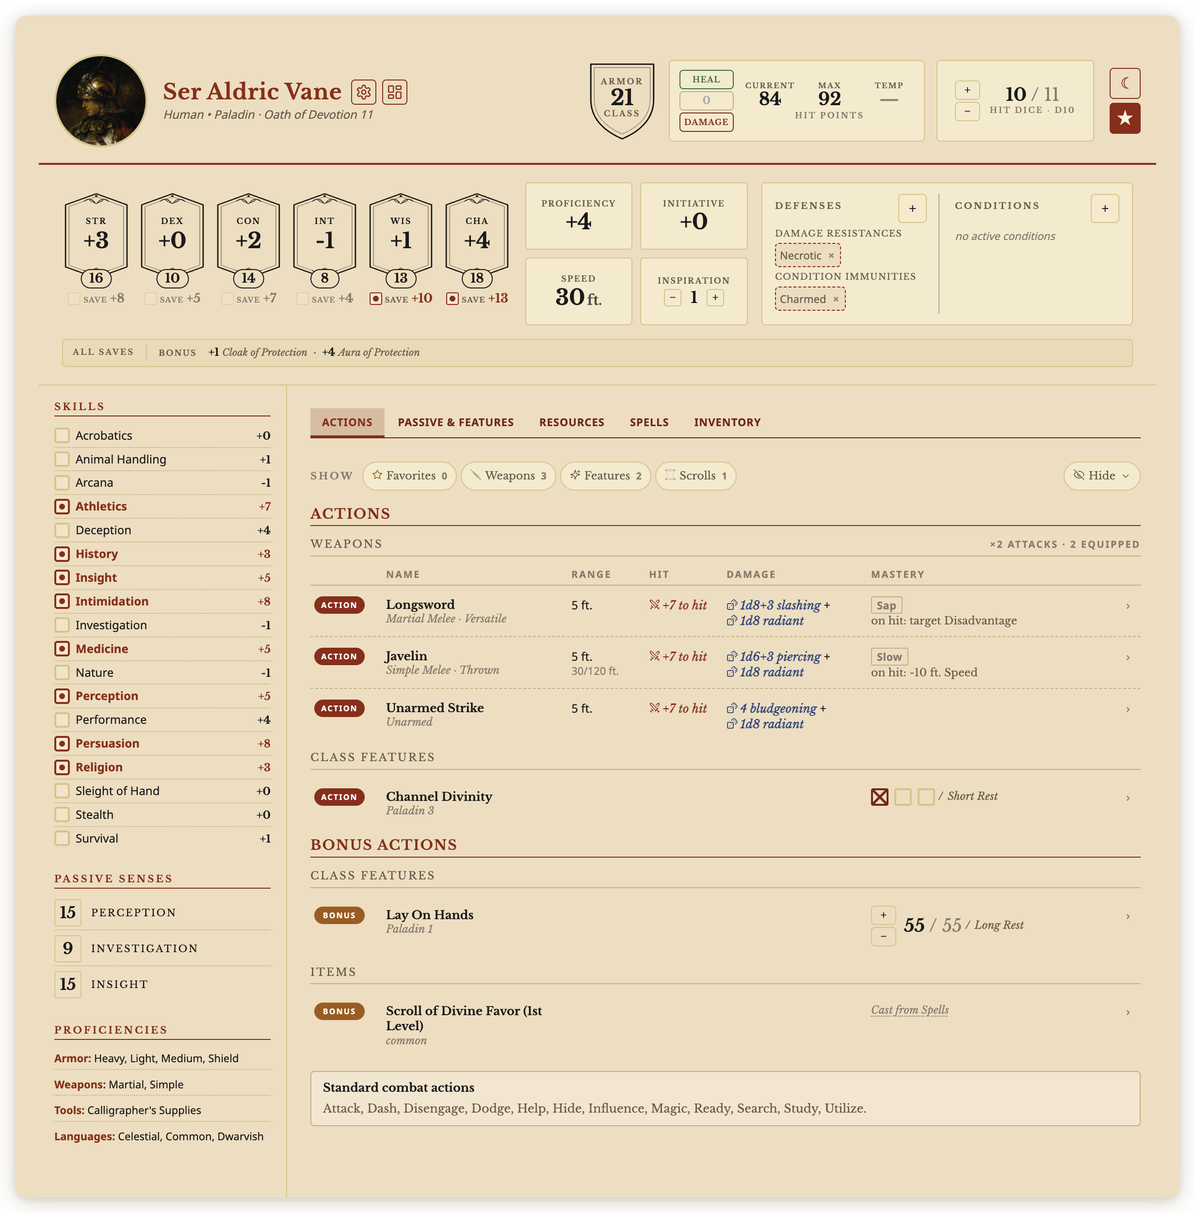
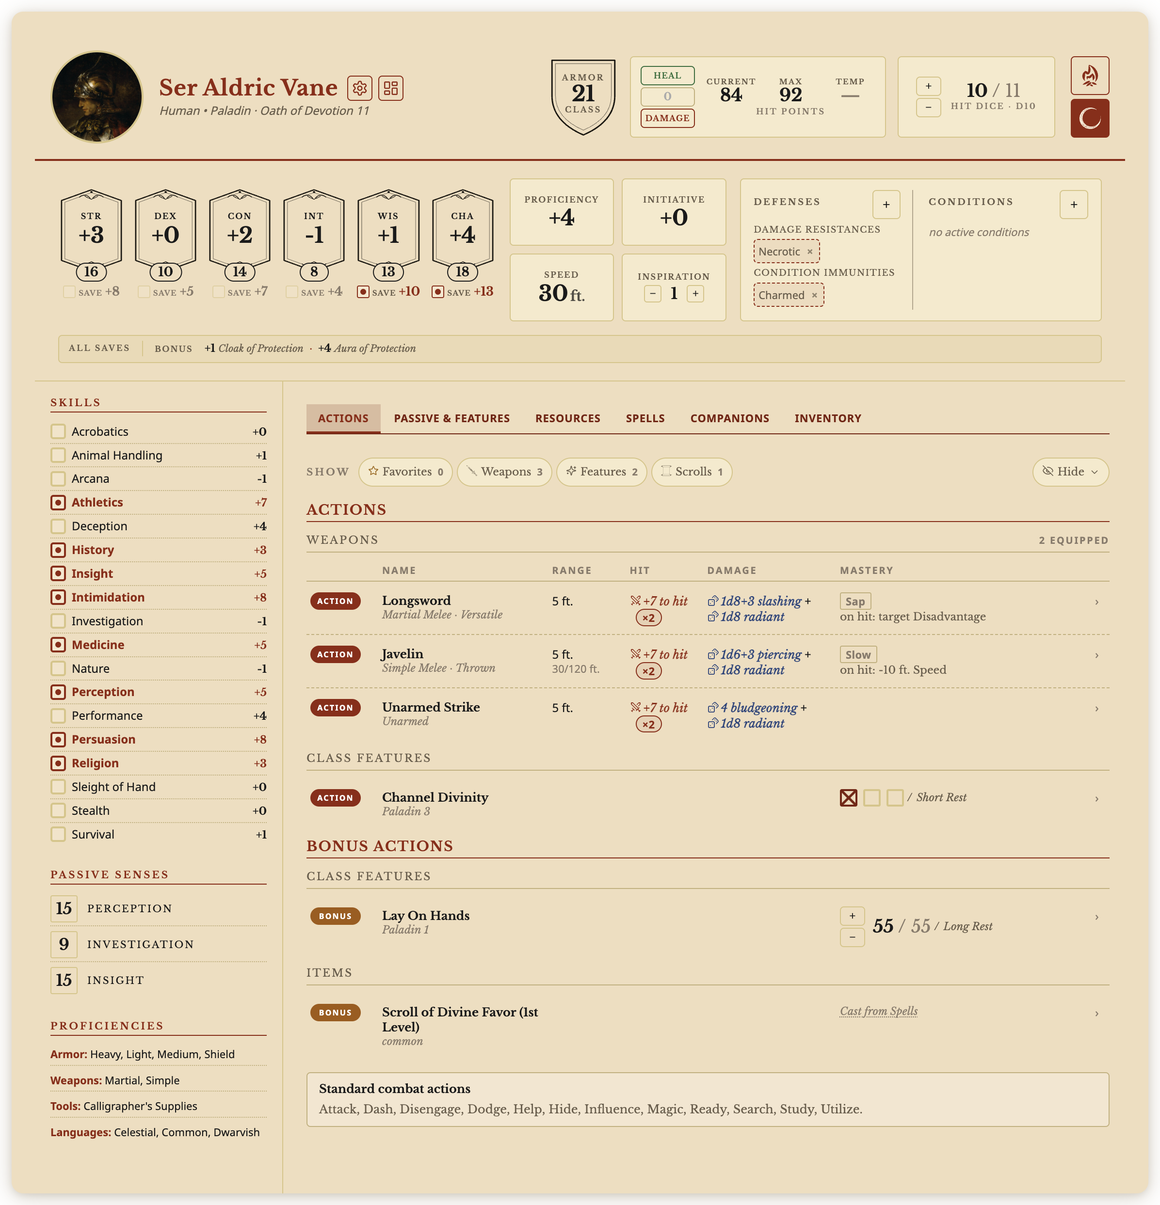
Archivist 0.13.3: the BRAT manifest, and the README's lines for a feat's spells, every edition in every list (Wild Shape and the summon window list creatures from every compendium you have not hidden, with a compendium filter), the first class setting the rules, the 2024 Exhaustion penalty on Initia
Claude-Session: https://claude.ai/code/session_011y1u5d3XX79585rFrwGxSB

diff --git a/README.md b/README.md
@@ -6,7 +6,7 @@
 
 **Fifth edition character sheets for [Obsidian](https://obsidian.md) that do the math for you and roll with a click.** Build your character step by step, and the sheet works out every number from the rules: saves, skills, attacks, damage, spells, resources and rests. Give your character a portrait, fill a backpack, and watch an item's benefits switch on when you put it on. Around the sheet, monsters and spells you write in your notes appear as parchment stat blocks, dice in your notes roll with a click, and the System Reference Document 5.1 and 5.2 arrive as linked compendiums next to your own homebrew. Everything stays in your vault as ordinary notes you own.
 
-![The character sheet of Ser Aldric Vane, a level 11 Human Paladin with a painted portrait: Armor Class 21, hit points, the six abilities with their saves, resistances, the skills list, and the Actions tab with weapons, weapon masteries and class features.](images/hero-sheet.png)
+![The character sheet of Ser Aldric Vane, a level 11 Human Paladin with a painted portrait: Armor Class 21, hit points, Hit Dice, the Short Rest and Long Rest buttons, the six abilities with their saves, resistances, the skills list, and the Actions tab with weapons, weapon masteries and class features.](images/hero-sheet.png)
 
 > **Which Archivist?** This is **Archivist by archivist-gg**, installed from this page. It is not related to other Obsidian plugins or apps named Archivist.
 
@@ -51,7 +51,7 @@ BRAT looks for new versions on its own. To update right away, open the command p
 
 The first time Archivist starts (and after an update that changes the SRD), it adds the SRD to your vault: about 3,600 read-only notes in `Compendium/SRD 5e` (SRD 5.1) and `Compendium/SRD 2024` (SRD 5.2). That first start takes a little longer than the ones after it. SRD 5e starts hidden from the lists you pick from; turn it on in **Settings → Archivist → Compendiums**.
 
-Then make a character with the **New character** command, the ribbon button, or **New character here** on any folder in the file explorer.
+Then make a character with the **New character** command, the ribbon button, or **New character** in the right-click menu of any folder in the file explorer.
 
 ## Contents
 
@@ -94,7 +94,7 @@ At a glance:
 
 ### Character sheet
 
-Every character is an ordinary note in your vault. Open it and you get the sheet. Keep it in any folder, and link, search and back it up like any other note.
+Every character is an ordinary note in your vault. Open it and you get the sheet. Keep it in any folder, and link, search and back it up like any other note. On Windows and Linux the sheet keeps the same width when a long tab brings up the scroll bar, so nothing jumps as you switch tabs or open a row.
 
 **Find in the sheet.** Press Cmd+F (Ctrl+F) on a sheet, or the search button at the top of it, and type: every match lights up and the bar counts them ("3 of 23"). Enter and Shift+Enter step through them, and Esc closes the bar. Each tab shows how many matches it holds, and Enter after the last one goes on to the next tab. The sheet uses the same keys as Obsidian's own search in a note.
 
@@ -156,7 +156,7 @@ Rolling your own dice at the table? Turn off **Roll dice when you click a number
 | Attack (HIT) | Roll to hit | Advantage | Disadvantage | **Roll attack…** window | Menu: the rolls, Roll attack…, saved rolls, Favorite, Hide |
 | Damage | Roll all the damage | Critical hit | | **Roll damage…** window | Menu: damage, critical, each extra bonus, Roll damage…, saved rolls |
 
-**Checks, saves and Initiative.** Roll a d20 plus your bonus. Advantage and disadvantage that always apply are used for you (advantage on Stealth rolls two d20s and keeps the higher; having both cancels them out), and the result says where the advantage came from.
+**Checks, saves and Initiative.** Roll a d20 plus your bonus. Advantage and disadvantage that always apply are used for you (advantage on Stealth rolls two d20s and keeps the higher; having both cancels them out), and the result says where the advantage came from. Under the 2024 rules, each level of Exhaustion takes 2 off every d20 you roll, and the sheet's numbers already include it: saves, skills, ability checks, Initiative, attacks and spell attacks.
 
 **Death saves.** At 0 HP, click DEATH SAVES to roll one and fill in its circle: 10 or more is a success, a natural 1 counts as two failures, and a natural 20 brings you back with 1 HP.
 
@@ -191,7 +191,7 @@ Anything you can roll gets a dotted underline when you hover it. Dice in your no
 
 **Passive & Features tab.** Species, background, class and subclass features, feats, and passive or free actions, each with where it comes from and at what level. Features you switch on (Rage) or use have their button here.
 
-**Resources tab.** Every limited resource, grouped by when it comes back (Short Rest or Long Rest): Hit Dice, use boxes, pools such as Lay On Hands, and dice that work like Hit Dice (the die, how many are left, − and +, and a box to type a number). Hover a die to see when it grows, such as "d6 at Bard 3, d8 at Bard 5". A feature that spends another resource lets you spend it right there.
+**Resources tab.** Every limited resource, grouped by when it comes back (Short Rest or Long Rest): Hit Dice, use boxes, pools such as Lay On Hands, and dice that work like Hit Dice (the die, how many are left, − and +, and a box to type a number). Hover a die to see when it grows, such as "d6 at Bard 3, d8 at Bard 5". A feature that spends another resource lets you spend it right there. A tracker you write yourself can count from an ability score, such as a pool of 5 times your Wisdom score: it grows when an item or an increase raises that score and keeps what you have spent.
 
 **Option tabs.** Classes that choose from a list of options get their own tab, such as **Eldritch Invocations** or **Metamagic**: a table with filters, how many you know, prerequisites, and Activate or Spend buttons where an option has them. An option whose prerequisite you no longer meet stays listed so you can swap it out, and does nothing until you meet it.
 
@@ -206,6 +206,7 @@ Anything you can roll gets a dotted underline when you hover it. Dice in your no
 - Columns for casting time, range, **Hit / DC**, effect (damage dice with a damage type icon, healing, targets) and components with duration, plus concentration and ritual marks.
 - **CAST** spends a slot. A spell attack's Atk rolls to hit, with its **ADV** or **DIS** on a line under the number, as on a weapon.
 - **CAST** on a spell that summons a creature, such as **Find Familiar** or **Animate Dead**, opens the summon window and adds the creature to the **Companions** tab.
+- **Spells from a feat.** A feat that gives spells, one you write yourself or import, now gives them: the Builder asks for the spells it lets you choose (cantrips, a spell list, a spell of a given level or school) and for its spellcasting ability, and they appear on the Spells tab, with a free cast for a spell it lets you cast once per Long Rest.
 - **Free casts.** A spell you can cast once per Long Rest without a slot, such as a species' spells or the level 1 spell from **Magic Initiate**, has an outlined **CAST** that counts the cast and greys out once it is used; a rest gives it back.
 - A cantrip that needs concentration, such as **Guidance**, has a **CAST** button in place of At Will, and casting it starts your concentration.
 - A choice that picks a list of spells, such as a **Circle of the Land** Druid's land, prepares that list's spells, and **Natural Recovery** casts one of them without a slot.
@@ -219,6 +220,7 @@ Anything you can roll gets a dotted underline when you hover it. Dice in your no
 A familiar, a steed, the creatures you animate or summon, and your Wild Shape forms get their own **Companions** tab, after Spells. It appears once a character has a companion, or a spell, feature or class option that brings one, such as **Find Familiar**, **Find Steed**, **Animate Dead**, **Animate Objects**, **Giant Insect**, **Summon Dragon** or the SRD 5.1 **Conjure** spells.
 
 - **Cast to summon.** **CAST** on a spell that summons a creature opens the summon window: the creatures you can choose from in a list, the one you pick as its full stat block beside it, and what the spell asks for, such as its kind (celestial, fey or fiend), its size or how many. **How you cast it** picks the way: a spell slot of a level you choose, a Pact slot, a free cast, as a ritual, or the scroll or item that holds the spell. A line says what the casting spends, and the button says it again. Then the creature joins the tab. Casting a spell that gives you only one creature again, such as **Find Steed**, updates the one you have. Until you cast, a card with **Summon** waits on the tab for each spell or feature that can bring a creature.
+- **Creatures from every compendium.** The summon window and the Wild Shape forms list creatures from every compendium you have not hidden, SRD 5.1 and SRD 5.2 alike, the spell's or class's own compendium first. Each row names its compendium, and the **Compendium** filter ticks compendiums on and off.
 - **A full stat block, worked out for you.** Each creature has its own Hit Points with Heal and Damage, temporary Hit Points and Hit Dice, its abilities, saves, skills and Initiative, and attacks that roll on its own numbers. Hover a number that grows with you or with the spell to see how it is worked out, such as "10 + the spell's level (2)". A creature from a class option uses that class's level, also when you have more than one class.
 - **Its own conditions.** A creature has its own conditions and Exhaustion, which change its rolls and never yours. The Conditions window greys out the conditions it is immune to.
 - **Dismiss and Summon.** **Dismiss** sends a creature away. A familiar from **Find Familiar** waits in its pocket dimension and **Call back** brings it back for free. Any other creature needs a real casting to come back: **Summon…** opens the summon window on your last picks, where you can also choose another creature or form, and casting it spends a slot, a Pact slot or a free cast, or nothing as a ritual. A creature's menu renames it, adds a note, changes its form (a familiar from an owl to a cat) or removes it.
@@ -246,7 +248,7 @@ A familiar, a steed, the creatures you animate or summon, and your Wild Shape fo
 - **Drag and drop.** Drag a row into a container, out of it, or onto **On you**. Drop it on a matching item to add it to that stack. An item that is equipped or attuned, has its own note, charges or changes, or is a container keeps its own row.
 - Each row's menu: Equip or Unequip, **Move to** another container, **Trade with…** another character, Quantity, Split one off, Edit note, Remove.
 - **Select** picks several rows at once to trade, move or remove them together.
-- **Trade** items and coins with another character in your vault. The Trade window shows the two characters side by side, each with their coins right above their items: move items either way (part of a stack, a container with what is in it; worn or attuned items come off), add coins, then **Trade**. **Undo** puts both characters back, and each Inventory keeps a **Given and received** list.
+- **Trade** items and coins with another character in your vault. The Trade window shows the two characters side by side, each with their coins right above their items. Both sides list what that character has **On you** first, then each container, and the two lists line up row for row. Move items either way (part of a stack, a container with what is in it; worn or attuned items come off), add coins, then **Trade**. **Undo** puts both characters back, and each Inventory keeps a **Given and received** list.
 - **Benefits follow what you wear.** An item's resistances, immunities, AC, saves, senses, speeds and effects count while it is equipped (and attuned, if it needs attunement). A magic weapon that needs attunement attacks as a plain weapon until you attune it.
 - Item **notes**, **charges** with when they come back ("Dawn 1d6+1"), and a **Customize** card for changes to one item.
 - **Icons** for weapons, armor, gear, potions, wands, rings and more.
@@ -255,10 +257,12 @@ A familiar, a steed, the creatures you animate or summon, and your Wild Shape fo
 
 ### Builder
 
-Make a character with **New character** (the command or the ribbon button) or **New character here** on any folder, and the Builder opens. Come back later with **Manage & level up** to level up or change a choice.
+Make a character with **New character** (the command, the ribbon button, or the right-click menu of any folder), and the Builder opens. Come back later with **Manage & level up** to level up or change a choice.
 
 - Six steps: **Race / Species**, **Class & Levels**, **Background**, **Abilities**, **Equipment** and **Details**.
 - Every pick is a list of what is in your compendiums, SRD and homebrew together, with where each one comes from. Select one to read its full card before you decide.
+- **Every edition in every list.** Lists are not split by edition: a 2024 character can pick a 2014 spell, feat or option, and the other way round. Only a compendium you hide stays out of the lists.
+- **Your first class sets the rules.** A character follows the edition of its first class: a 2024 class plays the 2024 rules for conditions, Exhaustion and actions, a 2014 class the 2014 rules. Characters you made before follow their class too, with no change to their note.
 - **What you decide** lists every choice your pick asks for (skills, a lineage, a Fighting Style, Weapon Mastery, a subclass, feats or Ability Score Improvements) with its level, and marks what is still open.
 - **Features by level** shows the whole class progression: features you have are filled in, the ones ahead are hollow.
 - Multiclass with **Add another class**, set ability scores by standard array, point buy, typing them in or rolling, and take your starting equipment from your class and background.
@@ -273,12 +277,13 @@ Make a character with **New character** (the command or the ribbon button) or **
 
 A compendium is a folder of notes inside your `Compendium` folder, one note for each monster, spell, item and so on.
 
-- **SRD 5.1 and SRD 5.2 included.** Archivist adds both as read-only compendiums (`SRD 5e` and `SRD 2024`): every SRD spell, monster, magic item, class, subclass, species, background, feat and condition. An update only touches the notes that changed. SRD 5e starts hidden from the lists you pick from.
+- **SRD 5.1 and SRD 5.2 included.** Archivist adds both as read-only compendiums (`SRD 5e` and `SRD 2024`): every SRD spell, monster, magic item, class, subclass, species, background, feat and condition. An update only touches the notes that changed, and Archivist notices any changed SRD note, so a fix to the SRD reaches your vault with the update that brings it. SRD 5e starts hidden from the lists you pick from.
 - **Your own homebrew.** Keep your own monsters, spells, items and more in your own compendiums, next to the SRD. Save any stat block to a compendium with the button beside it; if you do not have one yet, Archivist offers to make one.
 - **Name them your way.** Give SRD 5e and SRD 2024 any name in **Settings → Archivist → Compendiums**, and Archivist shows it wherever it names them. Your folders, notes and links keep their names.
 - **Show or hide, lock or unlock.** Each compendium has a **Visible** switch (whether its entries show up in the sheet's and the Builder's lists and when you type `{{`) and a **Read-only** switch. "Save as new" copies an entry from a read-only compendium into one you can edit.
 - **Changes show up right away.** Edit, add, rename or delete a compendium note and Archivist uses it at once, with no restart. An open sheet shows the change the next time it updates.
 - **Quick to start.** Archivist remembers your compendiums on each device, so later starts only read the notes that changed.
+- **Bring your own content with an AI assistant.** The Archivist skills teach an AI assistant such as Claude to turn a character sheet, a PDF or your own homebrew into notes Archivist reads, and to check and update older notes: [download the Archivist skills](https://github.com/archivist-gg/archivist-obsidian-plugin/releases/latest/download/Archivist-skills.zip).
 
 ![Typing {{spell:fire in a note lists Fire Bolt, Fire Shield, Fire Storm, Fireball, Delayed Blast Fireball, Faerie Fire and Wall of Fire from SRD 2024.](images/compendium-suggest.png)
 
@@ -337,7 +342,7 @@ Type `{{` and start typing a name to pull any entry from your compendiums into a
 | Setting | What it does |
 | --- | --- |
 | Compendium root folder | The folder that holds your compendiums (`Compendium` unless you change it). |
-| Player characters folder | Where **New character** puts new characters. A character works in any folder. |
+| Default player character folder | Where the **New character** command and the ribbon button put new characters. A character works in any folder. |
 | Portraits folder | Where the portrait picker looks for pictures and keeps the ones you import (`PlayerCharacters/Portraits` unless you change it). |
 | Rolls → Critical hits | What a critical hit does to damage: double the dice (the default), maximum dice plus a roll, or double the total. |
 | Rolls → Where roll results appear | Top right (the default), bottom right, top left or bottom left of the window, for every roll: the sheet's, a stat block's and the dice in your notes. **Next to the number** opens a sheet roll's result beside the number you clicked. |
@@ -349,7 +354,7 @@ Type `{{` and start typing a name to pull any entry from your compendiums into a
 
 | Command | What it does |
 | --- | --- |
-| New character | Makes a new character and opens the Builder. Also on the ribbon, and as **New character here** on any folder. |
+| New character | Makes a new character and opens the Builder. Also on the ribbon, and in the right-click menu of any folder, which puts the character in that folder. |
 | Find in character sheet | Opens the find bar on the sheet you are looking at, like Cmd+F (Ctrl+F) or the search button at the top of the sheet. |
 | Insert monster block | Adds a monster outline where your cursor is. |
 | Insert spell block | Adds a spell outline. |
@@ -416,7 +421,7 @@ In [Issues](https://github.com/archivist-gg/archivist-obsidian-plugin/issues). T
 The verbatim SRD 5.1 and SRD 5.2 attribution, and how the material was changed, are in [THIRD-PARTY-NOTICES.md](THIRD-PARTY-NOTICES.md).
 
 **Credits.**
-- **Icons:** the item, condition and spell effect icons are line icons by Noun Project creators, under [CC BY 3.0](https://creativecommons.org/licenses/by/3.0/). Every icon and creator is listed in [CREDITS.md](CREDITS.md).
+- **Icons:** the sheet's icons (items, conditions, spell effects and the rest buttons) are by Noun Project creators, under [CC BY 3.0](https://creativecommons.org/licenses/by/3.0/). Every icon and creator is listed in [CREDITS.md](CREDITS.md).
 - **Fonts:** Libre Baskerville and Noto Sans, under the SIL Open Font License 1.1.
 - **Libraries:** js-yaml and zod (MIT), monkey-around (ISC).
 - **Portrait in the screenshots:** *Man in Armour* by Rembrandt (1655), Kelvingrove Art Gallery and Museum, Glasgow. Public domain, from [Wikimedia Commons](https://commons.wikimedia.org/wiki/File:Rembrandt_Man_in_Armour.jpg).

diff --git a/CREDITS.md b/CREDITS.md
@@ -5,13 +5,15 @@ Attribution 3.0 License (CC BY 3.0, https://creativecommons.org/licenses/by/3.0/
 the System Reference Document content and the libraries Archivist uses are credited in THIRD-
 PARTY-NOTICES.md.
 
-## Item, condition and spell effect icons
+## Sheet icons (items, conditions, spell effects, rest buttons)
 
-The character sheet's item, condition, spell effect and rest button icons are line icons from Noun Project
+The character sheet's item, condition, spell effect and rest button icons are icons from Noun Project
 (https://thenounproject.com/) creators, each licensed under the Creative Commons Attribution 3.0
 License (CC BY 3.0, https://creativecommons.org/licenses/by/3.0/). They are embedded in main.js
 with the attribution text removed, and credited here in the form "Title by Creator from Noun
-Project (CC BY 3.0)". 136 icons (138 keys), 31 creators.
+Project (CC BY 3.0)". 136 icons (138 keys), 32 creators. An icon credited as "adapted" was changed:
+the short rest button's Flame by Doodle Icons is redrawn in brush strokes to match the long rest
+button's Moon.
 
 ### 4urbrand
 
@@ -129,10 +131,6 @@ Project (CC BY 3.0)". 136 icons (138 keys), 31 creators.
 
 - explosion by Andrejs Kirma from Noun Project (CC BY 3.0) https://thenounproject.com/icon/2181796/ (spell effect `physical`)
 
-### Ariyanto Deni
-
-- Night by Ariyanto Deni from Noun Project (CC BY 3.0) https://thenounproject.com/icon/6430732/ (sheet button `long-rest`)
-
 ### Arkinasi
 
 - Bomb by Arkinasi from Noun Project (CC BY 3.0) https://thenounproject.com/icon/8404843/ (key `bomb`)
@@ -142,6 +140,10 @@ Project (CC BY 3.0)". 136 icons (138 keys), 31 creators.
 - Spear by Art Isnakafa from Noun Project (CC BY 3.0) https://thenounproject.com/icon/8417234/ (key `pike`)
 - Pickaxe by Art Isnakafa from Noun Project (CC BY 3.0) https://thenounproject.com/icon/8194020/ (key `war-pick`)
 
+### arte ador
+
+- Moon by arte ador from Noun Project (CC BY 3.0) https://thenounproject.com/icon/5989475/ (sheet button `long-rest`)
+
 ### Azam Ishaq
 
 - Moai by Azam Ishaq from Noun Project (CC BY 3.0) https://thenounproject.com/icon/4945433/ (key `petrified`)
@@ -149,6 +151,10 @@ Project (CC BY 3.0)". 136 icons (138 keys), 31 creators.
 ### Circlon Tech
 
 - Love by Circlon Tech from Noun Project (CC BY 3.0) https://thenounproject.com/icon/8214933/ (key `charmed`)
+
+### Doodle Icons
+
+- Flame by Doodle Icons from Noun Project (CC BY 3.0), adapted https://thenounproject.com/icon/3883894/ (sheet button `short-rest`)
 
 ### Elena Babushkina
 
@@ -234,7 +240,6 @@ Project (CC BY 3.0)". 136 icons (138 keys), 31 creators.
 ### Yosua Bungaran
 
 - Flame by Yosua Bungaran from Noun Project (CC BY 3.0) https://thenounproject.com/icon/8388501/ (spell effect `fire`)
-- Campfire by Yosua Bungaran from Noun Project (CC BY 3.0) https://thenounproject.com/icon/8388494/ (sheet button `short-rest`)
 
 ### yus
 

diff --git a/THIRD-PARTY-NOTICES.md b/THIRD-PARTY-NOTICES.md
@@ -225,11 +225,13 @@ OTHER DEALINGS IN THE FONT SOFTWARE.
 
 ## Icons (CC BY 3.0)
 
-The character sheet's item, condition, spell effect and rest button icons are line icons from Noun Project
+The character sheet's item, condition, spell effect and rest button icons are icons from Noun Project
 (https://thenounproject.com/) creators, each licensed under the Creative Commons Attribution 3.0
 License (CC BY 3.0, https://creativecommons.org/licenses/by/3.0/). They are embedded in main.js
 with the attribution text removed, and credited here in the form "Title by Creator from Noun
-Project (CC BY 3.0)". 136 icons (138 keys), 31 creators.
+Project (CC BY 3.0)". 136 icons (138 keys), 32 creators. An icon credited as "adapted" was changed:
+the short rest button's Flame by Doodle Icons is redrawn in brush strokes to match the long rest
+button's Moon.
 
 ### 4urbrand
 
@@ -347,10 +349,6 @@ Project (CC BY 3.0)". 136 icons (138 keys), 31 creators.
 
 - explosion by Andrejs Kirma from Noun Project (CC BY 3.0) https://thenounproject.com/icon/2181796/ (spell effect `physical`)
 
-### Ariyanto Deni
-
-- Night by Ariyanto Deni from Noun Project (CC BY 3.0) https://thenounproject.com/icon/6430732/ (sheet button `long-rest`)
-
 ### Arkinasi
 
 - Bomb by Arkinasi from Noun Project (CC BY 3.0) https://thenounproject.com/icon/8404843/ (key `bomb`)
@@ -360,6 +358,10 @@ Project (CC BY 3.0)". 136 icons (138 keys), 31 creators.
 - Spear by Art Isnakafa from Noun Project (CC BY 3.0) https://thenounproject.com/icon/8417234/ (key `pike`)
 - Pickaxe by Art Isnakafa from Noun Project (CC BY 3.0) https://thenounproject.com/icon/8194020/ (key `war-pick`)
 
+### arte ador
+
+- Moon by arte ador from Noun Project (CC BY 3.0) https://thenounproject.com/icon/5989475/ (sheet button `long-rest`)
+
 ### Azam Ishaq
 
 - Moai by Azam Ishaq from Noun Project (CC BY 3.0) https://thenounproject.com/icon/4945433/ (key `petrified`)
@@ -367,6 +369,10 @@ Project (CC BY 3.0)". 136 icons (138 keys), 31 creators.
 ### Circlon Tech
 
 - Love by Circlon Tech from Noun Project (CC BY 3.0) https://thenounproject.com/icon/8214933/ (key `charmed`)
+
+### Doodle Icons
+
+- Flame by Doodle Icons from Noun Project (CC BY 3.0), adapted https://thenounproject.com/icon/3883894/ (sheet button `short-rest`)
 
 ### Elena Babushkina
 
@@ -452,7 +458,6 @@ Project (CC BY 3.0)". 136 icons (138 keys), 31 creators.
 ### Yosua Bungaran
 
 - Flame by Yosua Bungaran from Noun Project (CC BY 3.0) https://thenounproject.com/icon/8388501/ (spell effect `fire`)
-- Campfire by Yosua Bungaran from Noun Project (CC BY 3.0) https://thenounproject.com/icon/8388494/ (sheet button `short-rest`)
 
 ### yus
 
